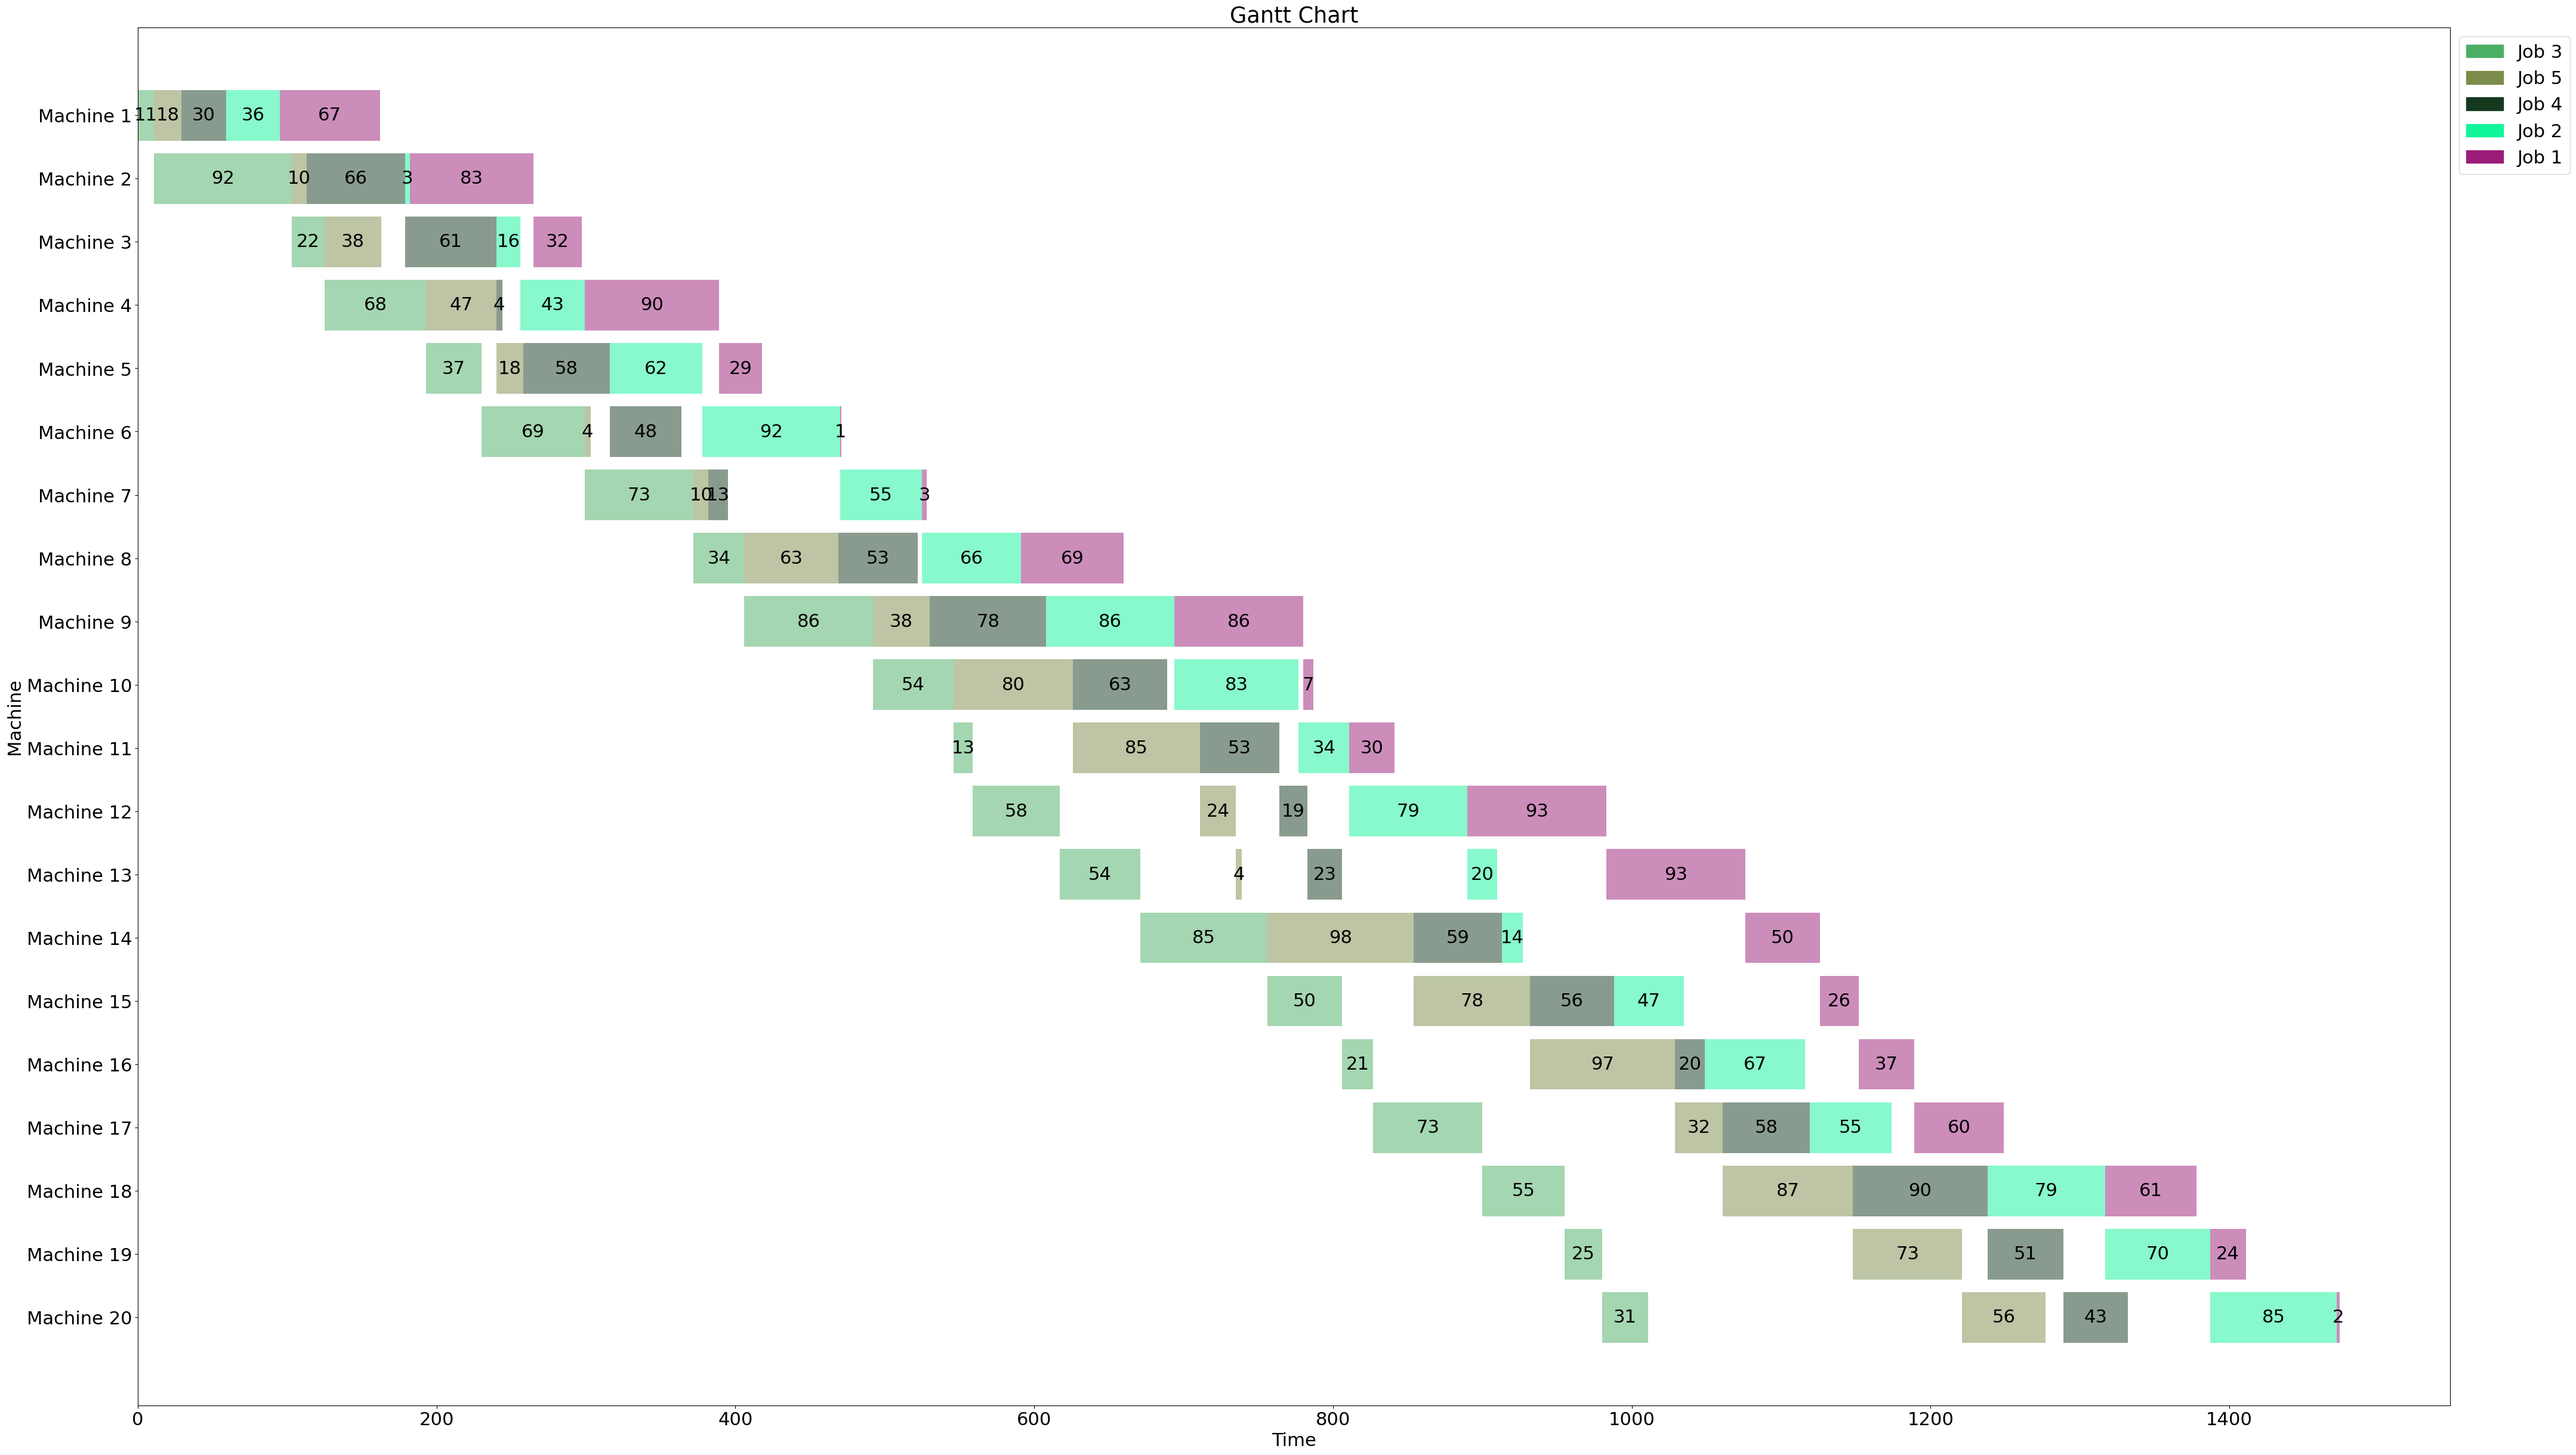
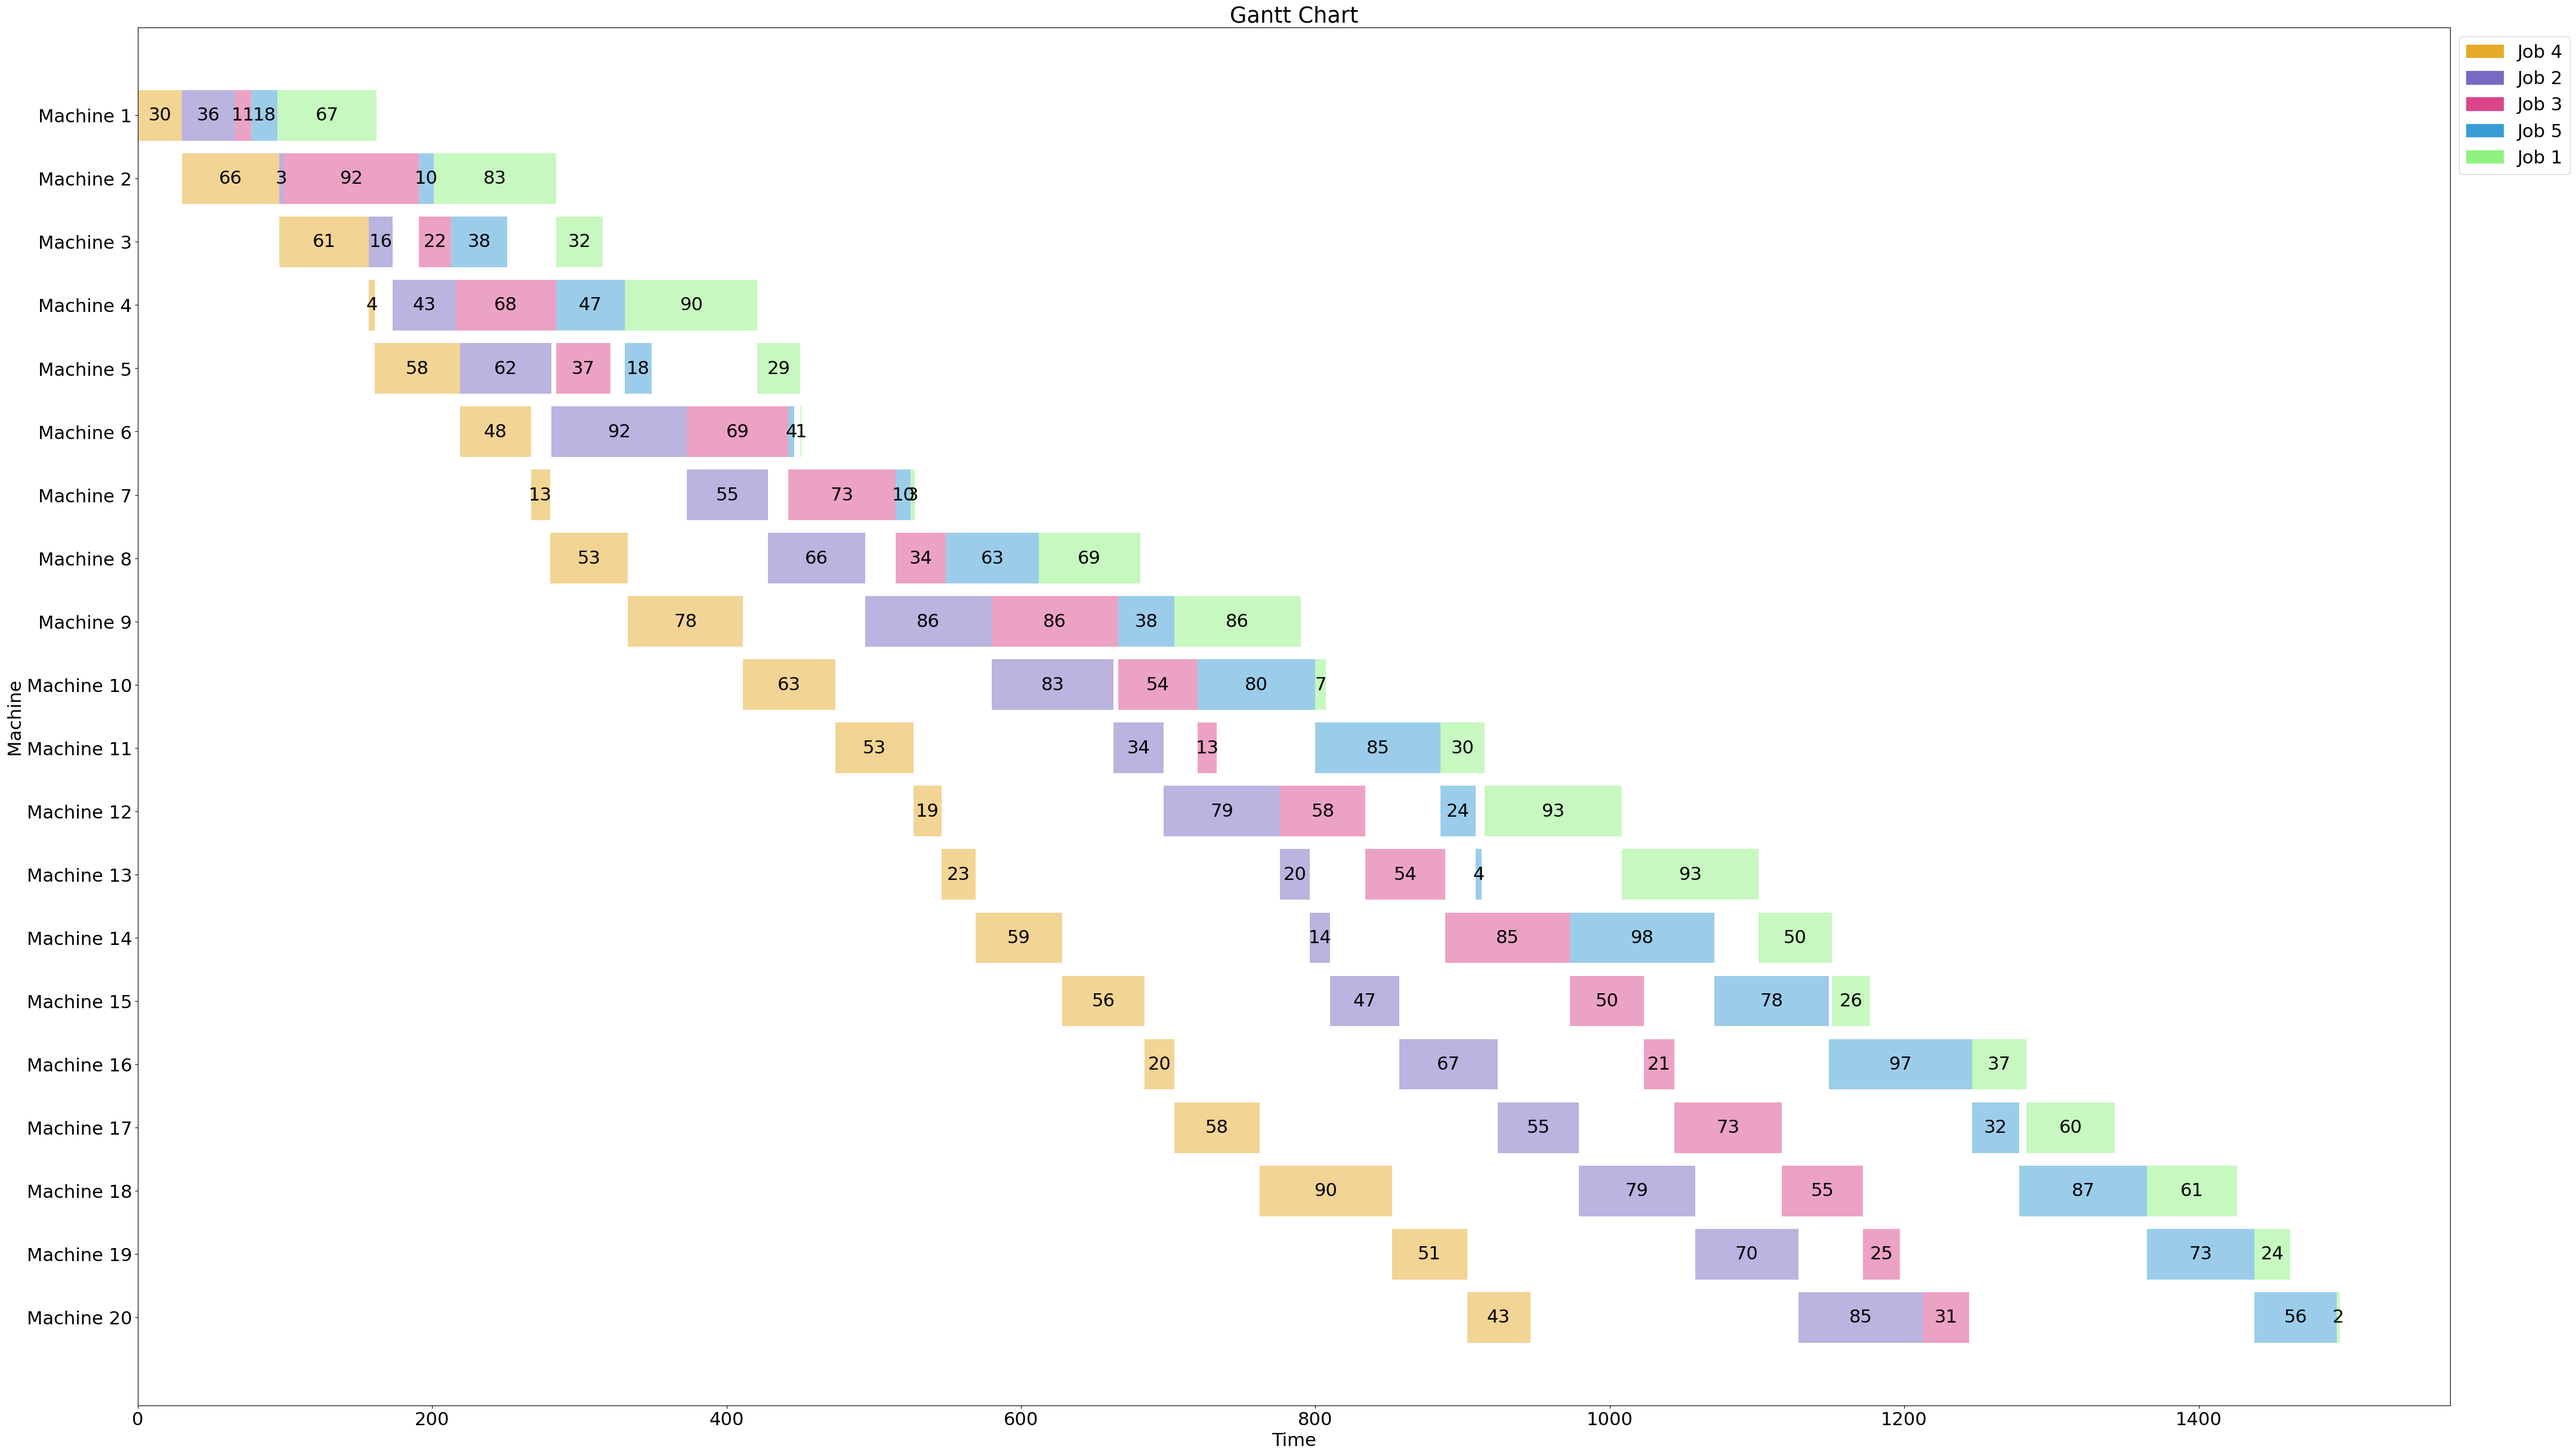
aaa

Changed region(s): [[0.031, 0.0623, 0.9312, 0.9348], [0.9622, 0.0312, 0.9933, 0.1246], [0.6208, 0.966, 0.6518, 0.9971]]

diff --git a/job_seq_sample.py b/job_seq_sample.py
@@ -1,16 +1,31 @@
 import scheduling_lib as slib
-# import pandas as pd
+import pandas as pd
 
 ptime_file = 't_500_20_mon.csv'
 job_seq = [4,2,3,5,1]
 
-# ptimes = pd.read_csv(ptime_file, index_col='JobID', nrows=len(job_seq))
-# print(ptimes)
-# ptimes = ptimes.sort_values(by=['M1'], ascending=True)
-# print(ptimes)
-# job_seq = ptimes.index.values
-# print(job_seq)
+
+print(pd.read_csv(ptime_file))
+
+ptimes = pd.read_csv(ptime_file, index_col='JobID', nrows=len(job_seq))
+print(ptimes)
+ptimes = ptimes.sort_values(by=['M1'], ascending=True)
+print(ptimes)
+job_seq = ptimes.index.values
+print(job_seq)
 
 
 makespan = slib.schedule(ptime_file, job_seq)
 print(makespan)
+
+
+
+
+import pandas as pd
+import scheduling_lib as slib
+
+ptime_file = 't_500_20_mon.csv'
+
+
+
+pd.read_csv(ptime_file, index_col='JobID')
